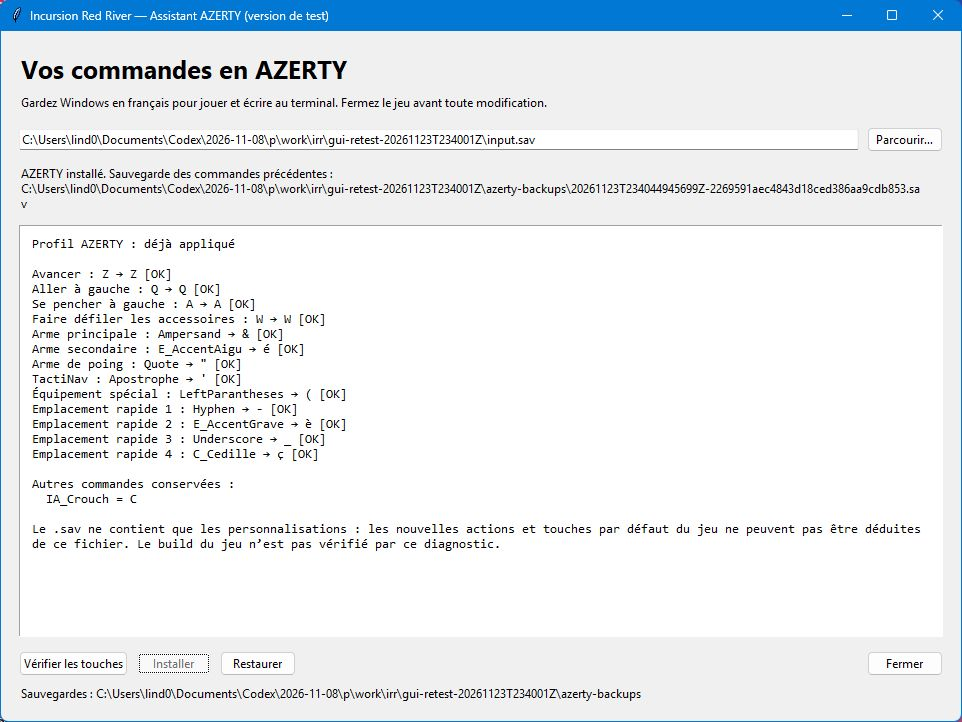
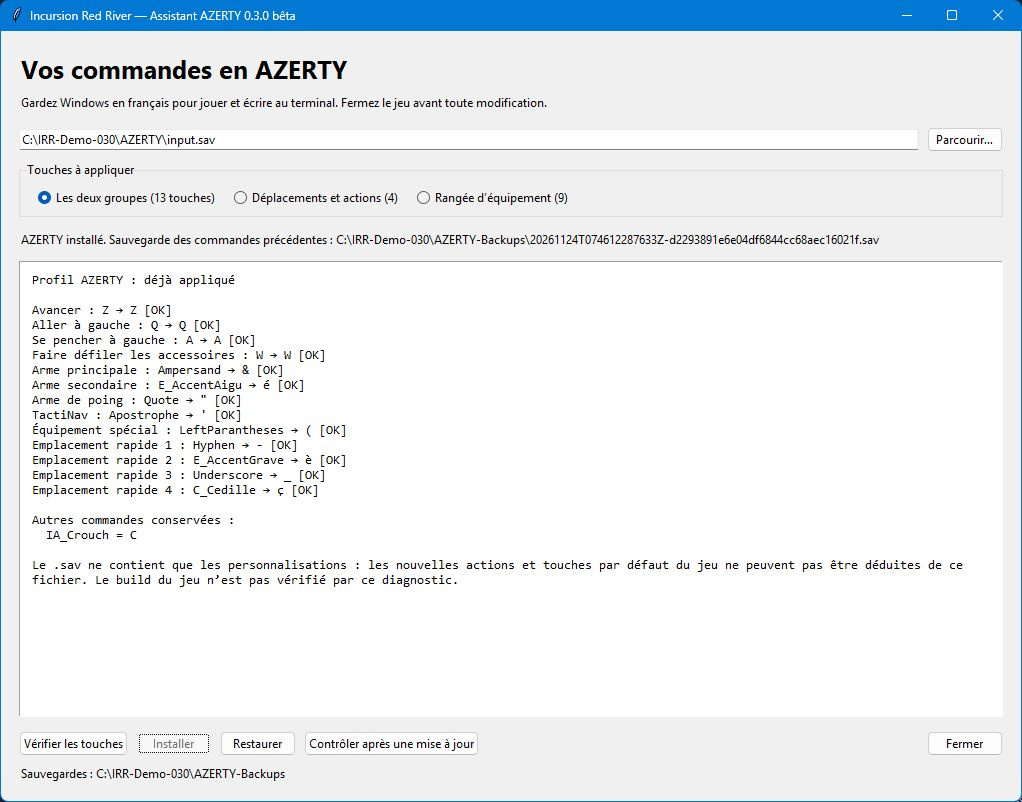
Publish optional FR and AZERTY assistants with manual installation and illustrated guides

diff --git a/maintenance/package_assistants.py b/maintenance/package_assistants.py
@@ -72,6 +72,10 @@ def build(output, release=False, executables=None):
         del fr[ROOT / 'installation/README.md']
         fr[ROOT / 'installation/README.md'] = 'installation/README.md'
         az.pop(ROOT / 'azerty/ASSISTANT-TEST.md')
+        fr.pop(ROOT / 'installation/VALIDATION-TEST1.json')
+        az.pop(ROOT / 'azerty/VALIDATION-TEST1.json')
+        fr[ROOT / 'docs/VALIDATION-0.3.0.json'] = 'VALIDATION.json'
+        az[ROOT / 'docs/VALIDATION-0.3.0.json'] = 'VALIDATION.json'
         az[ROOT / 'azerty/README.md'] = 'LISEZ-MOI.md'
         for path in verified_images(ROOT / 'docs/images', 'assistant-fr-'):
             fr[path] = 'docs/images/' + path.name

diff --git a/README.md b/README.md
@@ -55,6 +55,8 @@ L’exécutable fonctionne sous Windows x64 et intègre son environnement Python
 
 ![Assistant FR, essai dans des dossiers de démonstration](docs/images/assistant-fr-installation.jpg)
 
+![Contrôle local après mise à jour, sur une copie](docs/images/assistant-fr-controle.jpg)
+
 ### Méthode B — Installation manuelle, sans Python
 
 La procédure ci-dessous reste disponible. Les scripts de l’assistant ne sont pas nécessaires pour copier les fichiers à la main.

diff --git a/azerty/README.md b/azerty/README.md
@@ -86,4 +86,6 @@ Une action absente du .sav est une valeur implicite du jeu. Ce fichier ne permet
 
 ![Restauration AZERTY dans un dossier de démonstration](../docs/images/assistant-azerty-restauration.jpg)
 
+![Contrôle du profil et du build, sur une copie](../docs/images/assistant-azerty-controle.jpg)
+
 Les captures montrent des copies de test. Aucun nom de compte Windows ou chemin personnel n’y est affiché.
